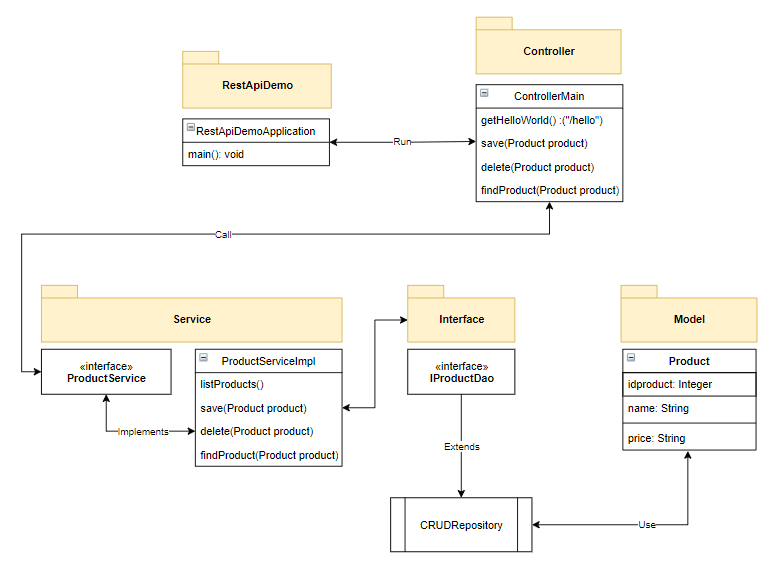
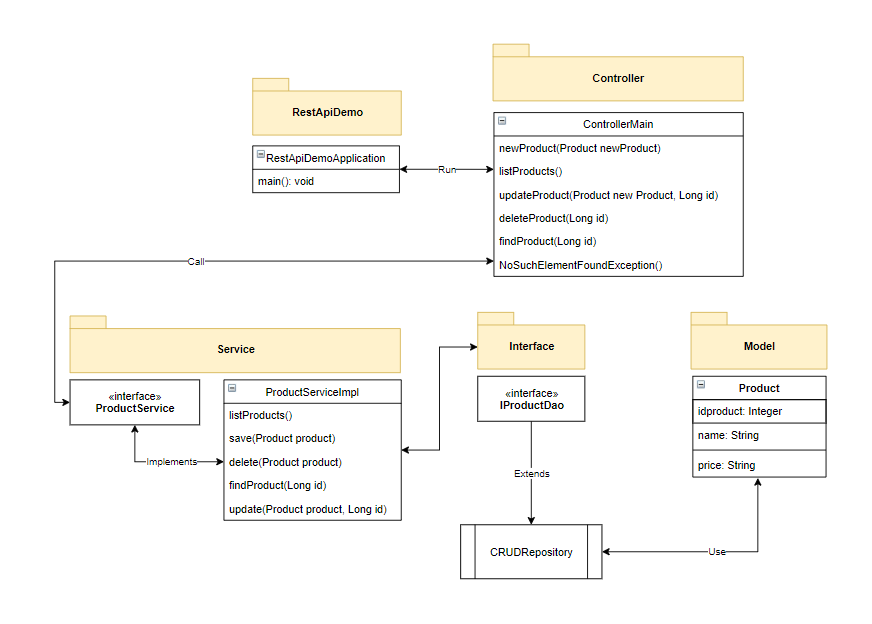
:white_check_mark: Working on Unit Test

diff --git a/src/main/java/co/com/aaandrades/RestApiDemo/Service/ProductServiceImpl.java b/src/main/java/co/com/aaandrades/RestApiDemo/Service/ProductServiceImpl.java
@@ -11,23 +11,23 @@ import java.util.List;
 
 /* This is a service layer, here we declared the actions that going to do with the API */
 @Service
-public class ProductServiceImpl implements ProductService{
+public class ProductServiceImpl implements ProductService {
 
     @Autowired
     private IProductDao productDao;
 
     @Override
-    // Just will read the DB, don't create a commit (Success) or Rollback (Fail)
     @Transactional(readOnly = true)
     public List<Product> listProducts() {
+        // Just will read the DB, don't create a commit (Success) or Rollback (Fail)
         // FindAll() return an object, so it need the cast.
         return (List<Product>) productDao.findAll();
     }
 
     @Override
-    // If operation is Success, create a commit and continue, otherwise, do Rollback and end.
     @Transactional
-    public Product save(Product product) {
+    public Product saveProduct(Product product) {
+        // If operation is Success, create a commit and continue, otherwise, do Rollback and end.
         // Save a product
         productDao.save(product);
         return product;
@@ -35,15 +35,35 @@ public class ProductServiceImpl implements ProductService{
 
     @Override
     @Transactional
-    public void delete(Product product) {
+    public String delete(Long id) {
         // Delete a service
-        productDao.delete(product);
+        productDao.deleteById(id);
+        return "Delete Successful";
     }
 
     @Override
     @Transactional(readOnly = true)
-    public Product findProduct(Product product) {
+    public Product findProduct(Long id) {
         // If product doesn't exist, return null, otherwise return the product.
-        return productDao.findById(product.getIdproduct()).orElse(null);
+        return productDao.findById(id)
+                .orElse(null);
     }
+
+    @Override
+    public Product update(Product newProduct, Long id) {
+        return productDao.findById(id)
+                // If the id exist, will be updated, otherwise will create a new one.
+                .map(product -> {
+                    product.setName(newProduct.getName());
+                    product.setPrice(newProduct.getPrice());
+                    return productDao.save(product);
+                })
+                .orElseGet(() -> {
+                    newProduct.setIdproduct(id);
+                    return productDao.save(newProduct);
+                });
+    }
+
+
 }
+ 

diff --git a/src/main/java/co/com/aaandrades/RestApiDemo/Controller/ControllerMain.java b/src/main/java/co/com/aaandrades/RestApiDemo/Controller/ControllerMain.java
@@ -4,10 +4,8 @@ import co.com.aaandrades.RestApiDemo.Interface.IProductDao;
 import co.com.aaandrades.RestApiDemo.Service.ProductService;
 import co.com.aaandrades.RestApiDemo.model.Product;
 import lombok.extern.slf4j.Slf4j;
-import lombok.var;
 import org.springframework.beans.factory.annotation.Autowired;
-import org.springframework.stereotype.Controller;
-import org.springframework.ui.Model;
+import org.springframework.http.HttpStatus;
 import org.springframework.web.bind.annotation.*;
 
 import java.util.List;
@@ -18,8 +16,10 @@ import java.util.List;
 @Slf4j
 public class ControllerMain {
 
-    private @Autowired ProductService productService;
-    private @Autowired IProductDao productDao;
+    private @Autowired
+    ProductService productService;
+    private @Autowired
+    IProductDao productDao;
 
     // Enable when use Thymeleaf to use MVC template.
     /*@GetMapping("/hello")
@@ -47,14 +47,41 @@ public class ControllerMain {
         return "index";
     }*/
 
+    // CREATE
+    @PostMapping("/add")
+    public Product newProduct(@RequestBody Product newProduct) {
+        return productService.saveProduct(newProduct);
+    }
+
+    // READ
     @GetMapping("/list")
-    public List<Product> listProducts(){
+    public List<Product> listProducts() {
         log.info("EXECUTE ROUTE List of products");
         return productService.listProducts();
     }
 
-    @PostMapping("/add")
-    Product newProduct(@RequestBody Product newProduct) {
-        return productService.save(newProduct);
+    // UPDATE
+    @PutMapping("/update/{id}")
+    public Product updateProduct(@RequestBody Product newProduct, @PathVariable Long id) {
+        return productService.update(newProduct, id);
     }
+
+    // DELETE
+    @DeleteMapping("/delete/{id}")
+    public String deleteProduct(@PathVariable Long id) {
+        return productService.delete(id);
+    }
+
+    // SEARCH
+    @GetMapping("/search/{id}")
+    public Product findProduct(@PathVariable Long id) {
+        return productService.findProduct(id);
+    }
+
+    // HandleError
+    @ResponseStatus(value = HttpStatus.CONFLICT)
+    public static class NoSuchElementFoundException extends RuntimeException {
+    }
+
+
 }

diff --git a/src/test/java/co/com/aaandrades/RestApiDemo/controller/ControllerMainTest.java b/src/test/java/co/com/aaandrades/RestApiDemo/controller/ControllerMainTest.java
@@ -1,0 +1,48 @@
+package co.com.aaandrades.RestApiDemo.controller;
+
+import co.com.aaandrades.RestApiDemo.Interface.IProductDao;
+import co.com.aaandrades.RestApiDemo.Service.ProductService;
+import co.com.aaandrades.RestApiDemo.mocks.TestMockUtils;
+import co.com.aaandrades.RestApiDemo.model.Product;
+import com.fasterxml.jackson.databind.ObjectMapper;
+import org.junit.Assert;
+import org.junit.Test;
+import org.junit.jupiter.api.Assertions;
+import org.junit.runner.RunWith;
+import org.mockito.junit.MockitoJUnitRunner;
+import org.springframework.beans.factory.annotation.Autowired;
+import org.springframework.boot.test.autoconfigure.orm.jpa.DataJpaTest;
+import org.springframework.boot.test.autoconfigure.orm.jpa.TestEntityManager;
+import org.springframework.boot.test.mock.mockito.MockBean;
+
+@RunWith(MockitoJUnitRunner.class)
+@DataJpaTest
+public class ControllerMainTest {
+
+    @Autowired
+    private TestEntityManager entityManager;
+
+    @Autowired
+    private IProductDao productDao;
+
+    @MockBean
+    ProductService productService;
+
+    ObjectMapper mapper = new ObjectMapper();
+
+    @Test
+    public void it_should_save_product() {
+        Product product = new Product();
+        product = TestMockUtils.getMockProduct();
+        //entityManager.persistAndFlush(product);
+        Assertions.assertNotNull(product);
+
+
+        /*
+        testEntityManager.persistAndFlush(product);
+        Assertions.assertNotNull(product.getIdproduct());*/
+    }
+
+}
+
+

diff --git a/src/main/java/co/com/aaandrades/RestApiDemo/Service/ProductService.java b/src/main/java/co/com/aaandrades/RestApiDemo/Service/ProductService.java
@@ -6,16 +6,18 @@ import java.util.List;
 
 // Spring will read the instance of the ProductService but will be execute the file that
 // implements the service (ProductService) with the annotation @Service, that is the file
-// that will have all the logic.
+// with all the logic.
 
 public interface ProductService {
 
     public List<Product> listProducts();
 
-    public Product save(Product product);
+    public Product saveProduct(Product product);
 
-    public void delete(Product product);
+    public String delete(Long id);
 
-    public Product findProduct(Product product);
+    public Product findProduct(Long id);
+
+    public Product update(Product product, Long id);
 
 }

diff --git a/src/main/java/co/com/aaandrades/RestApiDemo/Error/GlobalControllerExceptionHandler.java b/src/main/java/co/com/aaandrades/RestApiDemo/Error/GlobalControllerExceptionHandler.java
@@ -1,0 +1,16 @@
+package co.com.aaandrades.RestApiDemo.Error;
+
+import org.springframework.dao.DataIntegrityViolationException;
+import org.springframework.http.HttpStatus;
+import org.springframework.web.bind.annotation.ControllerAdvice;
+import org.springframework.web.bind.annotation.ExceptionHandler;
+import org.springframework.web.bind.annotation.ResponseStatus;
+
+@ControllerAdvice
+public class GlobalControllerExceptionHandler {
+    @ResponseStatus(HttpStatus.CONFLICT)
+    @ExceptionHandler(DataIntegrityViolationException.class)
+    public void handleConflict() {
+        System.out.println("WORKS WITHE EXCEPTION");
+    }
+}

diff --git a/src/test/java/co/com/aaandrades/RestApiDemo/RestApiDemoApplicationTests.java b/src/test/java/co/com/aaandrades/RestApiDemo/RestApiDemoApplicationTests.java
@@ -1,13 +1,20 @@
 package co.com.aaandrades.RestApiDemo;
 
+import co.com.aaandrades.RestApiDemo.Controller.ControllerMain;
+import org.junit.jupiter.api.Assertions;
 import org.junit.jupiter.api.Test;
+import org.springframework.beans.factory.annotation.Autowired;
 import org.springframework.boot.test.context.SpringBootTest;
 
 @SpringBootTest
-class RestApiDemoApplicationTests {
+public class RestApiDemoApplicationTests {
 
-	@Test
-	void contextLoads() {
-	}
+    @Autowired
+    private ControllerMain controllerMain;
+
+    @Test
+    void contextLoads() {
+        Assertions.assertNotNull(controllerMain);
+    }
 
 }

diff --git a/src/test/java/co/com/aaandrades/RestApiDemo/mocks/TestMockUtils.java b/src/test/java/co/com/aaandrades/RestApiDemo/mocks/TestMockUtils.java
@@ -1,0 +1,14 @@
+package co.com.aaandrades.RestApiDemo.mocks;
+
+import co.com.aaandrades.RestApiDemo.model.Product;
+
+public class TestMockUtils {
+    public static Product getMockProduct() {
+        Product product = new Product();
+        product.setName("Test name");
+        product.setPrice("123456");
+        Long id = 5L;
+        product.setIdproduct(id);
+        return product;
+    }
+}
